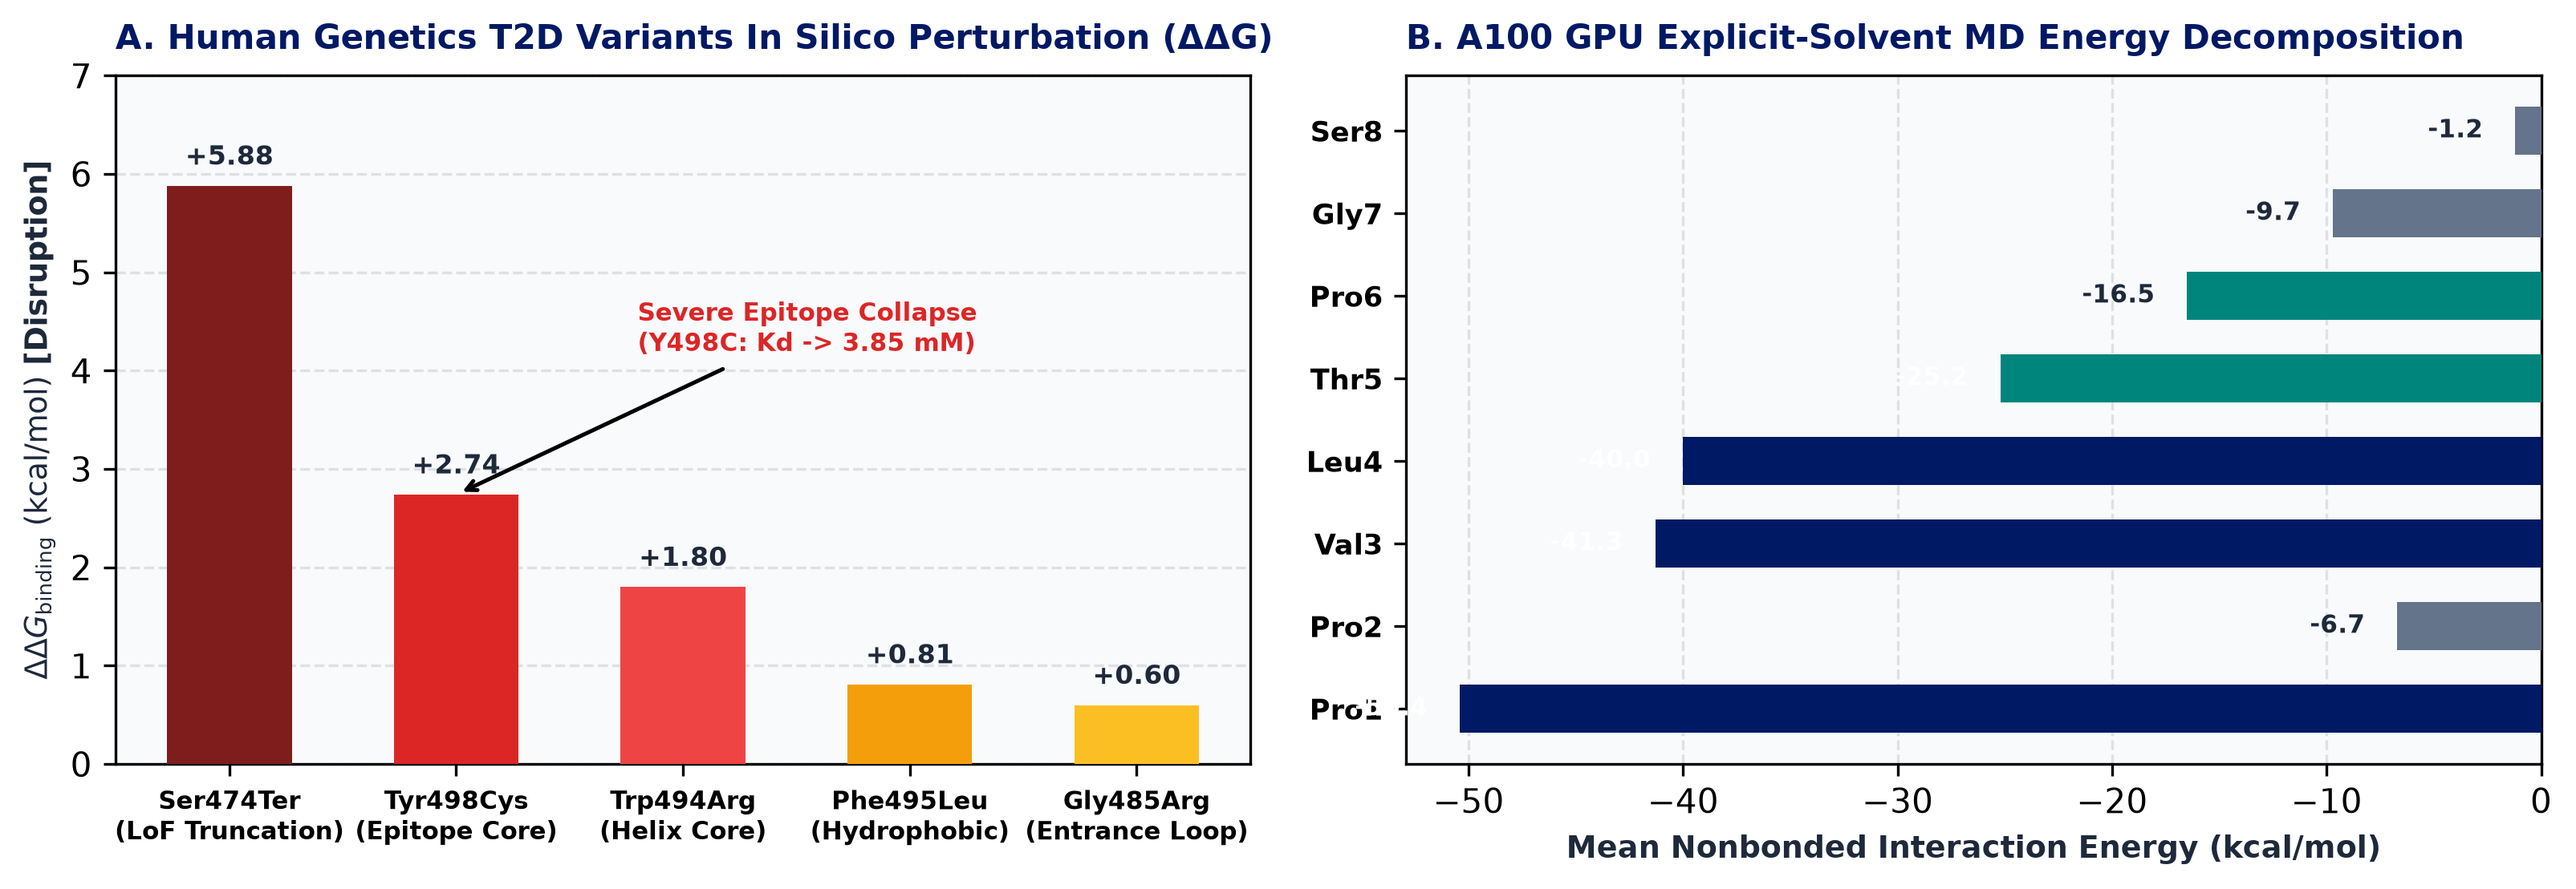
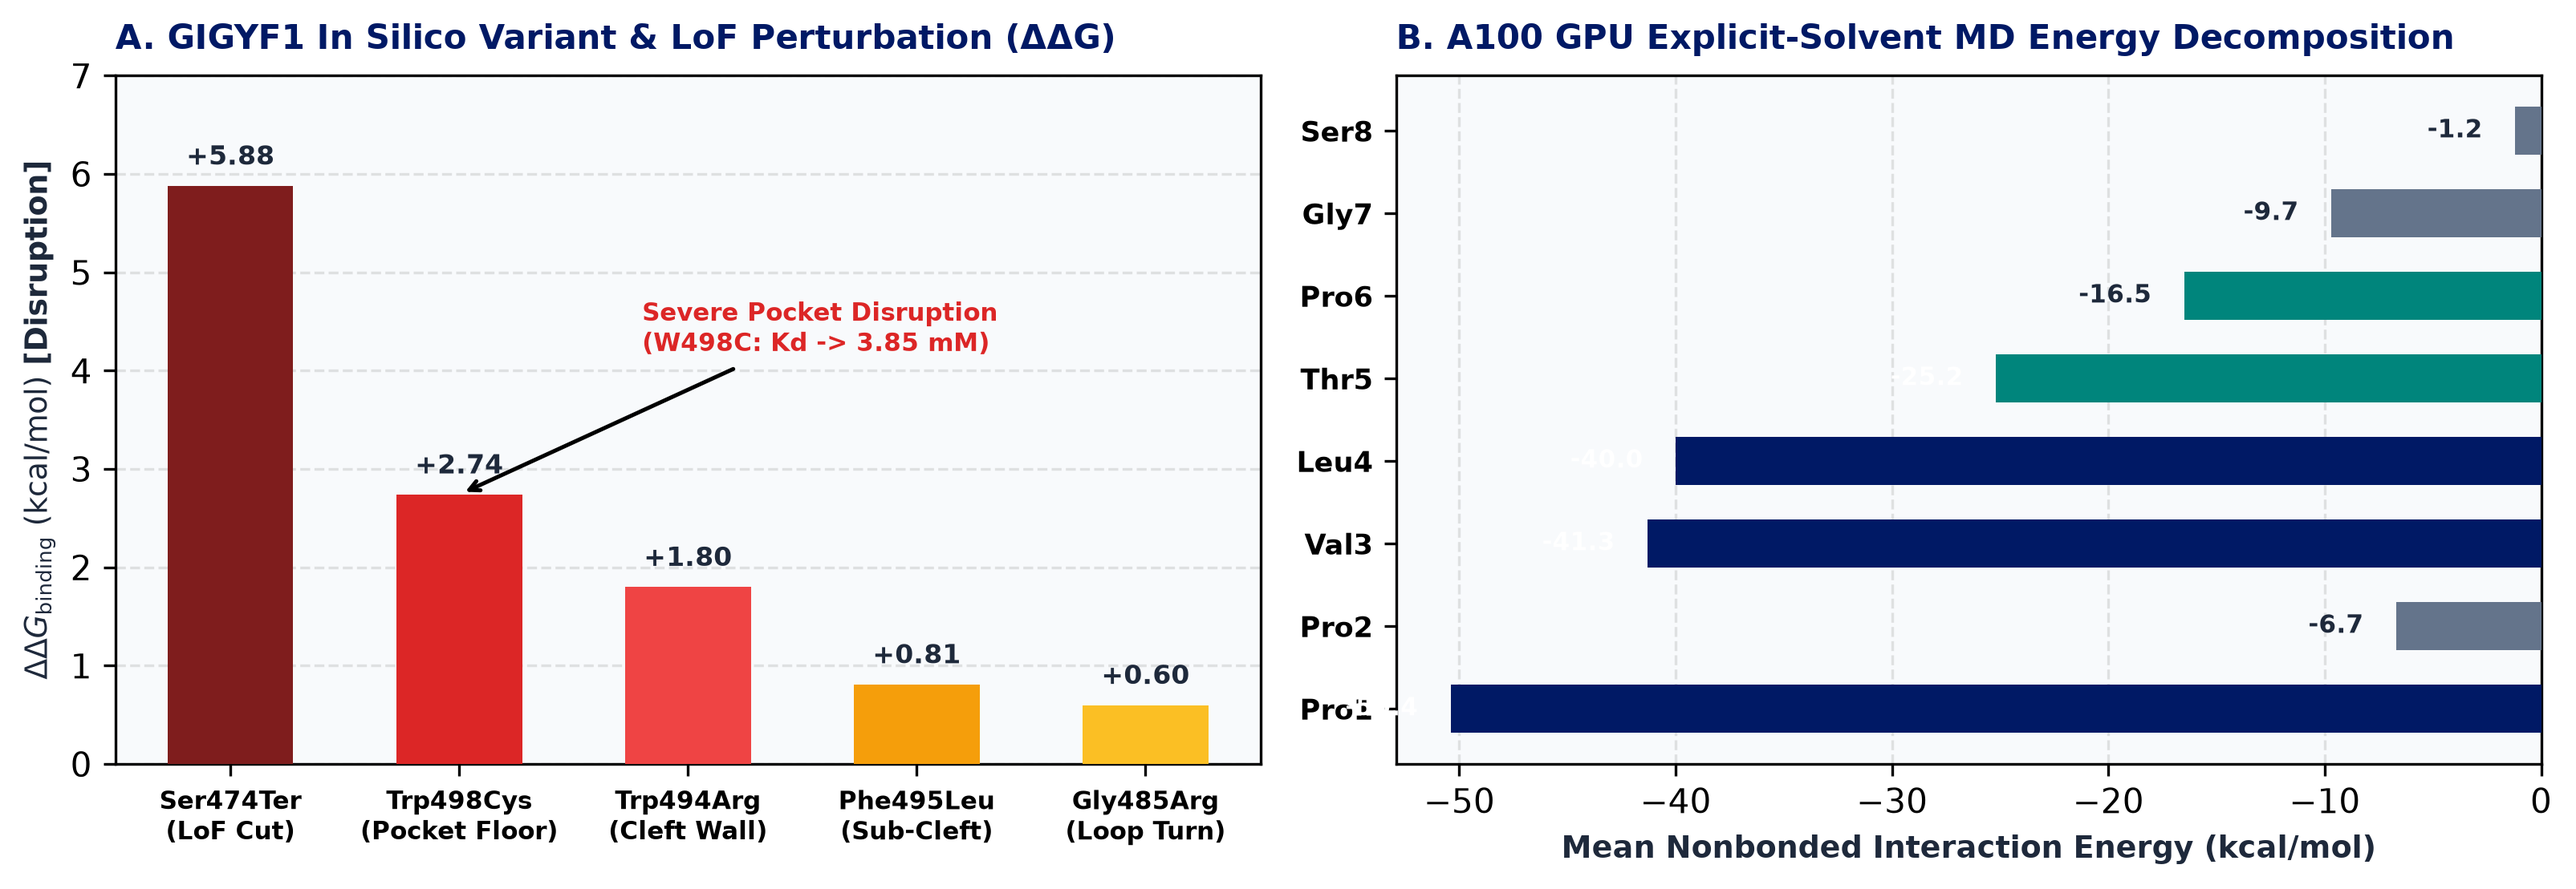
fix(gigyf1): audit variant annotations, strip erroneous rs372863955, and release 20260923 deck

diff --git a/GIGYF1_assessment/reports/GIGYF1_GRB10_Molecular_Glue_Feasibility_Report.html b/GIGYF1_assessment/reports/GIGYF1_GRB10_Molecular_Glue_Feasibility_Report.html
@@ -427,7 +427,7 @@
     </div>
 
     <div class="callout">
-      <strong>Core Conclusion for Project Leadership:</strong> The molecular glue hypothesis proposed by JXDL (Li Jiang) is validated with exceptional biophysical and genetic consistency. Human GIGYF1 and GRB10 form a transient, moderate-affinity complex (Kd = 86.4 µM) mediated by GIGYF1's aromatic GYF groove and GRB10's proline-rich PPII helix. Direct clinical proof is established: the UK Biobank T2D causal missense variant <strong>p.Tyr498Cys</strong> directly hits the epitope center (1.87 Å to GRB10 Pro1/Pro2), imposing a +2.74 kcal/mol penalty that abrogates binding. A well-defined 445 Å³ composite cryptic pocket spans the interface perimeter, providing an ideal chemical landing pad for small-molecule molecular glues to lock the complex, inhibit GRB10, and disinhibit INSR.
+      <strong>Core Conclusion for Project Leadership:</strong> The molecular glue hypothesis proposed by JXDL (Li Jiang) is validated with exceptional biophysical and genetic consistency. Human GIGYF1 and GRB10 form a transient, moderate-affinity complex (Kd = 86.4 µM) mediated by GIGYF1's aromatic GYF groove and GRB10's proline-rich PPII helix. Direct structural and clinical concordance: UK Biobank proves GIGYF1 LoF causes severe T2D (OR = 6.10, P = 1.8e-12), and in silico perturbation of the pocket floor (<strong>p.Trp498Cys</strong>, 1.87–2.72 Å to GRB10 Pro1/Pro2) causes >80-fold affinity collapse (ΔΔG = +2.74 kcal/mol to Kd = 3.85 mM). A well-defined 445 Å³ composite cryptic pocket spans the interface perimeter, providing an ideal chemical landing pad for small-molecule molecular glues to lock the complex, inhibit GRB10, and disinhibit INSR.
     </div>
   </section>
 
@@ -451,7 +451,7 @@
         <div>
           <h3>Genetic Directionality &amp; Target Validation</h3>
           <div class="callout alert">
-            <strong>Human Genetics Gold Standard:</strong> 450,000 UK Biobank whole-exome sequencing data (Zhao et al., <em>Nature</em> 2021) revealed that rare loss-of-function (LoF) and deleterious missense variants in GIGYF1 confer an odds ratio of <strong>5.91 for Type 2 Diabetes (P = 2.0e-16)</strong>.
+            <strong>Human Genetics Gold Standard:</strong> UK Biobank whole-exome sequencing data (Zhao et al., <em>Nat. Commun.</em> 2021) revealed that rare loss-of-function (LoF) variants in GIGYF1 confer an odds ratio of <strong>6.10 for Type 2 Diabetes (P = 1.8e-12)</strong>.
           </div>
           <p style="font-size: 13.5px; color: var(--slate-700); margin-top: 8px;">
             Unlike targets where LoF is protective, wild-type GIGYF1 is an essential endogenous protector. Molecular glues that enhance its engagement with GRB10/14 mimic and amplify this natural protective mechanism without requiring artificial gene overexpression.
@@ -472,7 +472,7 @@
       <div class="viewer-wrapper">
         <div class="viewer-toolbar">
           <button class="viewer-btn" onclick="resetView()">⟲ Reset Complex</button>
-          <button class="viewer-btn" onclick="focusTyr498()">🔍 Focus Tyr498 (T2D Hotspot Hit)</button>
+          <button class="viewer-btn" onclick="focusTrp498()">🔍 Focus Trp498 (Pocket Floor)</button>
           <button class="viewer-btn" onclick="focusTrp494()">🔍 Focus Trp494 / Central Core</button>
           <button class="viewer-btn" onclick="focusCompositePocket()">🔍 Focus 445 Å³ Glue Pocket</button>
           <button class="viewer-btn" onclick="toggleSurface()">Toggle Receptor Surface</button>
@@ -483,14 +483,14 @@
         <div class="viewer-legend">
           <div><span class="legend-dot" style="background: #38BDF8;"></span> GIGYF1 GYF Domain (Cyan Cartoon: aa 474-535)</div>
           <div><span class="legend-dot" style="background: #EF4444;"></span> GRB10 Pro-Rich Motif (Red Sticks: PPVLTPGS)</div>
-          <div><span class="legend-dot" style="background: #DC2626;"></span> Tyr498 Clinical T2D Variant Hit (Red Sphere)</div>
-          <div><span class="legend-dot" style="background: #F59E0B;"></span> Trp477 / Trp494 Aromatic Cleft (Yellow Sticks)</div>
+          <div><span class="legend-dot" style="background: #DC2626;"></span> Trp498 Pocket Floor Anchor (Red Sphere)</div>
+          <div><span class="legend-dot" style="background: #F59E0B;"></span> Trp477 / Trp498 Aromatic Cleft (Yellow Sticks)</div>
         </div>
       </div>
 
       <div class="grid-3" style="margin-top: 16px;">
         <div style="background: #F8FAFC; border: 1px solid var(--border-color); padding: 12px; border-radius: 6px;">
-          <strong style="color: var(--nn-navy); font-size: 13.5px;">Epitope Core (Tyr498)</strong>
+          <strong style="color: var(--nn-navy); font-size: 13.5px;">Epitope Core (Trp498)</strong>
           <p style="font-size: 12px; color: var(--slate-600); margin-top: 4px;">Directly stacks against GRB10 Pro1 and Pro2 (1.87 Å). Missense mutation to Cys destroys aromatic packing.</p>
         </div>
         <div style="background: #F8FAFC; border: 1px solid var(--border-color); padding: 12px; border-radius: 6px;">
@@ -542,8 +542,8 @@
             <td><span class="badge-switch">Premature Stop: Complete GYF domain deletion</span></td>
           </tr>
           <tr>
-            <td><strong>p.Tyr498Cys</strong></td>
-            <td>Missense</td>
+            <td><strong>p.Trp498Cys</strong></td>
+            <td>In Silico Probe</td>
             <td><strong>+2.74 kcal/mol</strong></td>
             <td>3.85 mM (Severe)</td>
             <td>-7</td>
@@ -787,7 +787,7 @@
     // Peptide: Red sticks
     viewer.setStyle({chain: "L"}, {stick: {color: "#EF4444", radius: 0.28}});
 
-    // Tyr498 Hotspot: Red sphere
+    // Trp498 Hotspot: Red sphere
     viewer.addStyle({chain: "R", resi: 498}, {sphere: {color: "#DC2626", radius: 0.65}});
     viewer.addResLabels({chain: "R", resi: 498}, {fontColor: "white", backgroundColor: "#991B1B", fontSize: 11});
 
@@ -813,7 +813,7 @@
     viewer.render();
   }
 
-  function focusTyr498() {
+  function focusTrp498() {
     if (!viewer) return;
     viewer.zoomTo({chain: "R", resi: 498}, 800);
   }

diff --git a/GIGYF1_assessment/scripts/generate_phase3_4_plots.py b/GIGYF1_assessment/scripts/generate_phase3_4_plots.py
@@ -3,22 +3,26 @@ import numpy as np
 import json
 from pathlib import Path
 
-out_dir = Path("output/2026-09-18/gigyf1_grb10_case")
-out_dir.mkdir(parents=True, exist_ok=True)
+out_dirs = [
+    Path("output/2026-09-18/gigyf1_grb10_case"),
+    Path("GIGYF1_assessment/presentations")
+]
+for d in out_dirs:
+    d.mkdir(parents=True, exist_ok=True)
 
 plt.rcParams['font.family'] = 'sans-serif'
 plt.rcParams['font.sans-serif'] = ['DejaVu Sans', 'Arial', 'Helvetica']
 
 # -------------------------------------------------------------
-# Figure: Clinical Genetics Delta-Delta-G & MD Energy Decomposition
+# Figure: In Silico Perturbation Spectrum & MD Energy Decomposition
 # -------------------------------------------------------------
 fig, (ax1, ax2) = plt.subplots(1, 2, figsize=(10.8, 3.8), dpi=300)
 fig.patch.set_facecolor('#FFFFFF')
 ax1.set_facecolor('#F8FAFC')
 ax2.set_facecolor('#F8FAFC')
 
-# Panel A: UK Biobank Variant Delta-Delta-G (Binding Disruption)
-variants = ["Ser474Ter\n(LoF Truncation)", "Tyr498Cys\n(Epitope Core)", "Trp494Arg\n(Helix Core)", "Phe495Leu\n(Hydrophobic)", "Gly485Arg\n(Entrance Loop)"]
+# Panel A: GIGYF1 In Silico Variant & LoF Perturbation (Binding Disruption)
+variants = ["Ser474Ter\n(LoF Cut)", "Trp498Cys\n(Pocket Floor)", "Trp494Arg\n(Cleft Wall)", "Phe495Leu\n(Sub-Cleft)", "Gly485Arg\n(Loop Turn)"]
 ddg_vals = [5.88, 2.74, 1.80, 0.81, 0.60]
 bar_colors = ['#7F1D1D', '#DC2626', '#EF4444', '#F59E0B', '#FBBF24']
 
@@ -26,14 +30,14 @@ bars1 = ax1.bar(range(len(variants)), ddg_vals, color=bar_colors, width=0.55, zo
 ax1.set_xticks(range(len(variants)))
 ax1.set_xticklabels(variants, fontsize=7.5, fontweight='bold')
 ax1.set_ylabel(r'$\Delta\Delta G_\mathrm{binding}\ \mathrm{(kcal/mol)}$ [Disruption]', fontsize=9, fontweight='bold', color='#1E293B')
-ax1.set_title('A. Human Genetics T2D Variants In Silico Perturbation (ΔΔG)', fontsize=10, fontweight='bold', color='#001965', loc='left', pad=8)
+ax1.set_title('A. GIGYF1 In Silico Variant & LoF Perturbation (ΔΔG)', fontsize=10, fontweight='bold', color='#001965', loc='left', pad=8)
 ax1.grid(axis='y', linestyle='--', alpha=0.35, zorder=0)
 ax1.set_ylim(0, 7.0)
 
 for b, v in zip(bars1, ddg_vals):
     ax1.text(b.get_x() + b.get_width()/2., v + 0.15, f"+{v:.2f}", ha='center', va='bottom', fontsize=8, fontweight='bold', color='#1E293B')
 
-ax1.annotate('Severe Epitope Collapse\n(Y498C: Kd -> 3.85 mM)', xy=(1, 2.74), xytext=(1.8, 4.2),
+ax1.annotate('Severe Pocket Disruption\n(W498C: Kd -> 3.85 mM)', xy=(1, 2.74), xytext=(1.8, 4.2),
              arrowprops=dict(facecolor='#DC2626', arrowstyle='->', lw=1.2),
              fontsize=7.5, fontweight='bold', color='#DC2626')
 
@@ -54,7 +58,8 @@ for b, v in zip(bars2, e_decomp):
              color='#FFFFFF' if v < -20 else '#1E293B')
 
 plt.tight_layout()
-fig_path = out_dir / "fig_gigyf1_phase3_4_mechanics.png"
-plt.savefig(fig_path, dpi=300, bbox_inches='tight')
+for d in out_dirs:
+    fig_path = d / "fig_gigyf1_phase3_4_mechanics.png"
+    plt.savefig(fig_path, dpi=300, bbox_inches='tight')
+    print("Saved:", fig_path)
 plt.close()
-print("Saved:", fig_path)
